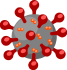
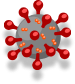
Continous work on rewards/obsticle hitboxes, controls, plus some sprite buffs

diff --git a/src/PlayScene.js b/src/PlayScene.js
@@ -131,17 +131,15 @@ class PlayScene extends Phaser.Scene {
 
       () => {
         this.rewardSound.play();
-        // console.log("Touched a reward");
         this.rewardPoints++;
         this.rewards.setAlpha(0);
         this.gameSpeedText.setText(
           "Current speed = " + this.gameSpeed.toFixed(0)
         );
-
         this.scarr.setText("Current bonus = " + this.rewardPoints);
 
         if (this.gameSpeed > 8) {
-          this.gameSpeed--;
+          this.gameSpeed - 0.4;
         }
 
         this.isGameRunning = true;
@@ -278,26 +276,26 @@ class PlayScene extends Phaser.Scene {
       this.jumpSound.play();
       this.trump.body.height = 92;
       this.trump.body.offset.y = 0;
-      this.trump.setVelocityY(-250);
+      this.trump.setVelocityY(-300);
       this.trump.setGravityY(300);
     });
     // DOWN
     this.input.keyboard.on("keydown-S", () => {
       this.trump.body.height = 92;
       this.trump.body.offset.x = 0;
-      this.trump.setVelocityY(250);
+      this.trump.setVelocityY(300);
     });
     // Left and right
     this.input.keyboard.on("keydown-A", () => {
       this.trump.body.height = 92;
       this.trump.body.offset.x = 0;
-      this.trump.setVelocityX(-200);
+      this.trump.setVelocityX(-500);
     });
 
     this.input.keyboard.on("keydown-D", () => {
       this.trump.body.height = 92;
       this.trump.body.offset.x = 0;
-      this.trump.setVelocityX(200);
+      this.trump.setVelocityX(300);
     });
 
     // Increase / Decrease speed by 1
@@ -402,15 +400,16 @@ class PlayScene extends Phaser.Scene {
   ////
   placeReward() {
     const rewardNum = Math.floor(Math.random() * 6) + 1;
-    const distance = Phaser.Math.Between(400, 600); // Distance between obsticles
+    const distance = Phaser.Math.Between(600, 800); // Distance between obsticles
 
     let reward;
 
     if (rewardNum === 1) {
+      const rewardHeight = [75, 100];
       reward = this.rewards
         .create(
           this.game.config.width + distance,
-          this.game.config.height / 1.5,
+          this.game.config.height - rewardHeight[Math.floor(Math.random() * 2)],
           `coin-anim`
         )
         .setOrigin(0, 1);
@@ -418,10 +417,11 @@ class PlayScene extends Phaser.Scene {
       reward.body.height = reward.body.height / 1.5;
     }
     if (rewardNum === 2) {
+      const rewardHeight = [50, 100];
       reward = this.rewards
         .create(
           this.game.config.width + distance,
-          this.game.config.height / 2,
+          this.game.config.height - rewardHeight[Math.floor(Math.random() * 2)],
           `coin-anim`
         )
         .setOrigin(0, 1);
@@ -430,10 +430,11 @@ class PlayScene extends Phaser.Scene {
     }
 
     if (rewardNum === 3) {
+      const rewardHeight = [25, 100];
       reward = this.rewards
         .create(
           this.game.config.width + distance,
-          this.game.config.height / 2.5,
+          this.game.config.height - rewardHeight[Math.floor(Math.random() * 2)],
           `coin-anim`
         )
         .setOrigin(0, 1);
@@ -442,10 +443,11 @@ class PlayScene extends Phaser.Scene {
     }
 
     if (rewardNum === 4) {
+      const rewardHeight = [25, 50];
       reward = this.rewards
         .create(
           this.game.config.width + distance,
-          this.game.config.height / 3,
+          this.game.config.height - rewardHeight[Math.floor(Math.random() * 2)],
           `coin-anim`
         )
         .setOrigin(0, 1);
